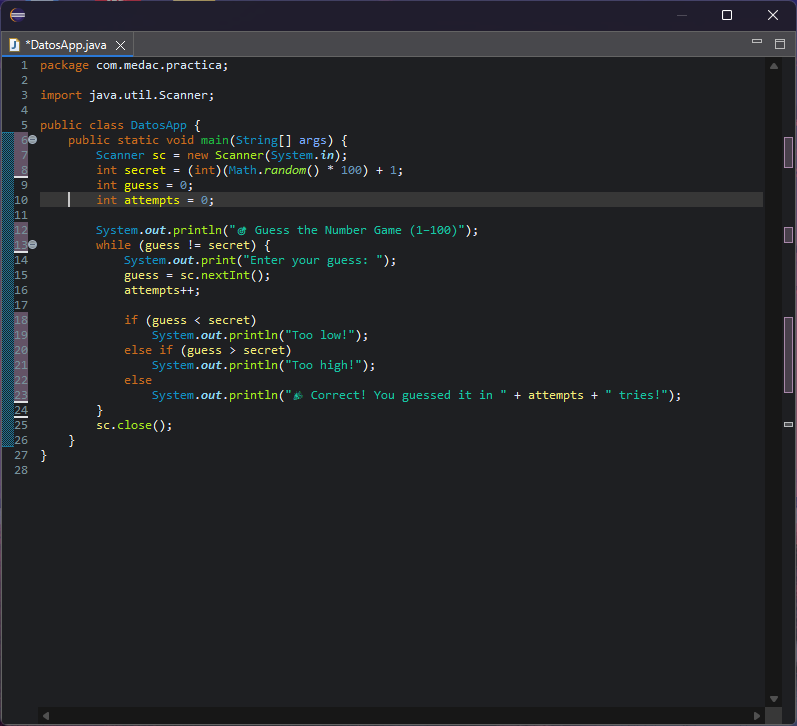
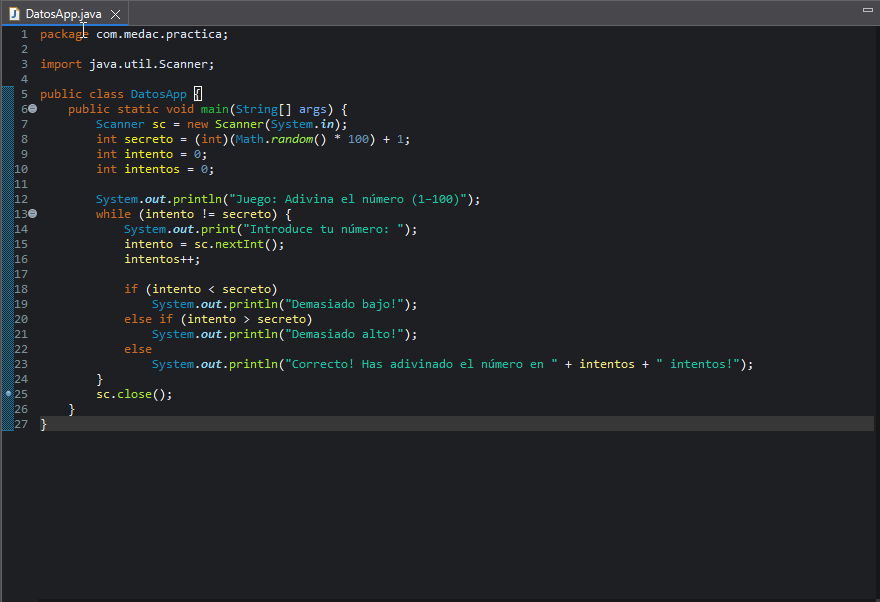
Updated webpage content

diff --git a/practica.html b/practica.html
@@ -23,30 +23,29 @@
 
   <h2>Código:</h2>
   <pre>
+package com.medac.practica;
+
 import java.util.Scanner;
 
-public class GuessNumber {
+public class DatosApp {
     public static void main(String[] args) {
         Scanner sc = new Scanner(System.in);
-        int numberToGuess = (int) (Math.random() * 10) + 1;
-        int guess = 0;
-        int attempts = 0;
+        int secreto = (int)(Math.random() * 100) + 1;
+        int intento = 0;
+        int intentos = 0;
 
-        System.out.println("🎯 Welcome to the Guess the Number Game!");
-        System.out.println("I'm thinking of a number between 1 and 10...");
+        System.out.println("Juego: Adivina el número (1–100)");
+        while (intento != secreto) {
+            System.out.print("Introduce tu número: ");
+            intento = sc.nextInt();
+            intentos++;
 
-        while (guess != numberToGuess) {
-            System.out.print("Enter your guess: ");
-            guess = sc.nextInt();
-            attempts++;
-
-            if (guess < numberToGuess) {
-                System.out.println("Too low! Try again.");
-            } else if (guess > numberToGuess) {
-                System.out.println("Too high! Try again.");
-            } else {
-                System.out.println("🎉 Correct! You guessed it in " + attempts + " attempts!");
-            }
+            if (intento < secreto)
+                System.out.println("Demasiado bajo!");
+            else if (intento > secreto)
+                System.out.println("Demasiado alto!");
+            else
+                System.out.println("Correcto! Has adivinado el número en " + intentos + " intentos!");
         }
         sc.close();
     }

diff --git a/java_files/Adivina el número.java.java b/java_files/Adivina el número.java.java
@@ -1,0 +1,27 @@
+package com.medac.practica;
+
+import java.util.Scanner;
+
+public class DatosApp {
+    public static void main(String[] args) {
+        Scanner sc = new Scanner(System.in);
+        int secreto = (int)(Math.random() * 100) + 1;
+        int intento = 0;
+        int intentos = 0;
+
+        System.out.println("Juego: Adivina el número (1–100)");
+        while (intento != secreto) {
+            System.out.print("Introduce tu número: ");
+            intento = sc.nextInt();
+            intentos++;
+
+            if (intento < secreto)
+                System.out.println("Demasiado bajo!");
+            else if (intento > secreto)
+                System.out.println("Demasiado alto!");
+            else
+                System.out.println("Correcto! Has adivinado el número en " + intentos + " intentos!");
+        }
+        sc.close();
+    }
+}
